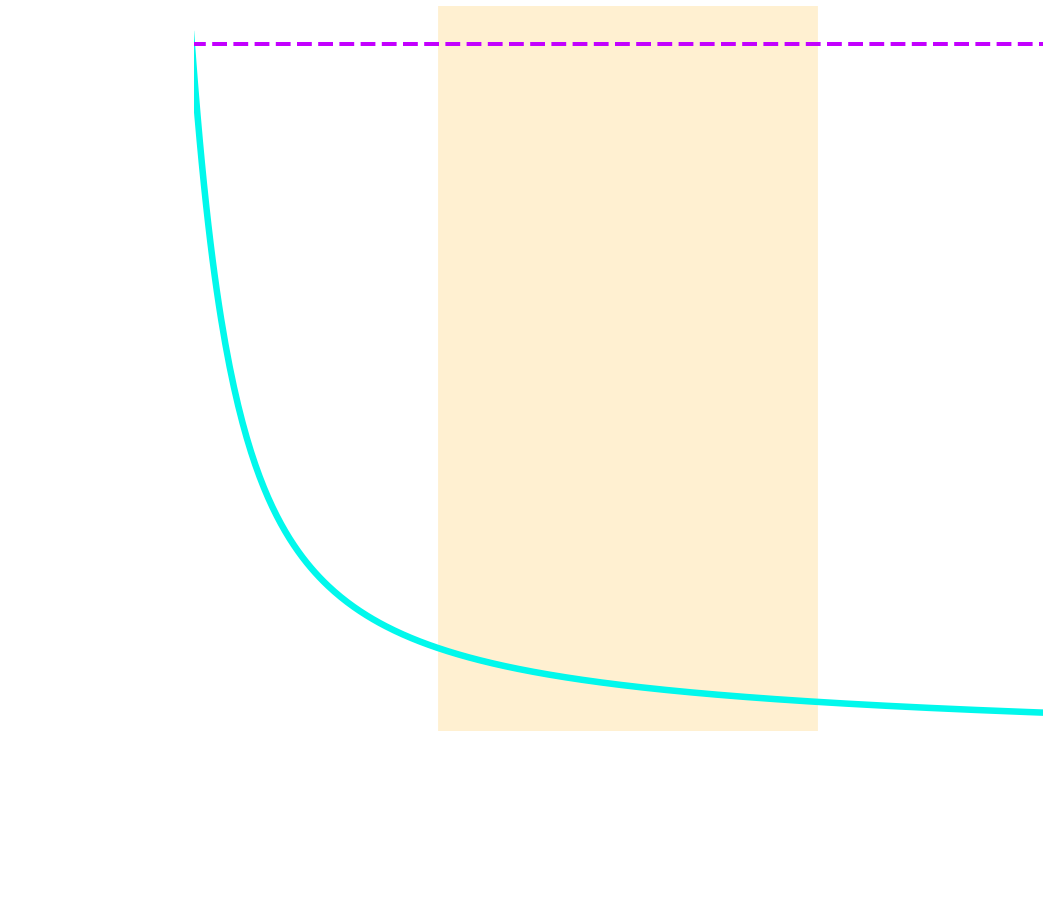
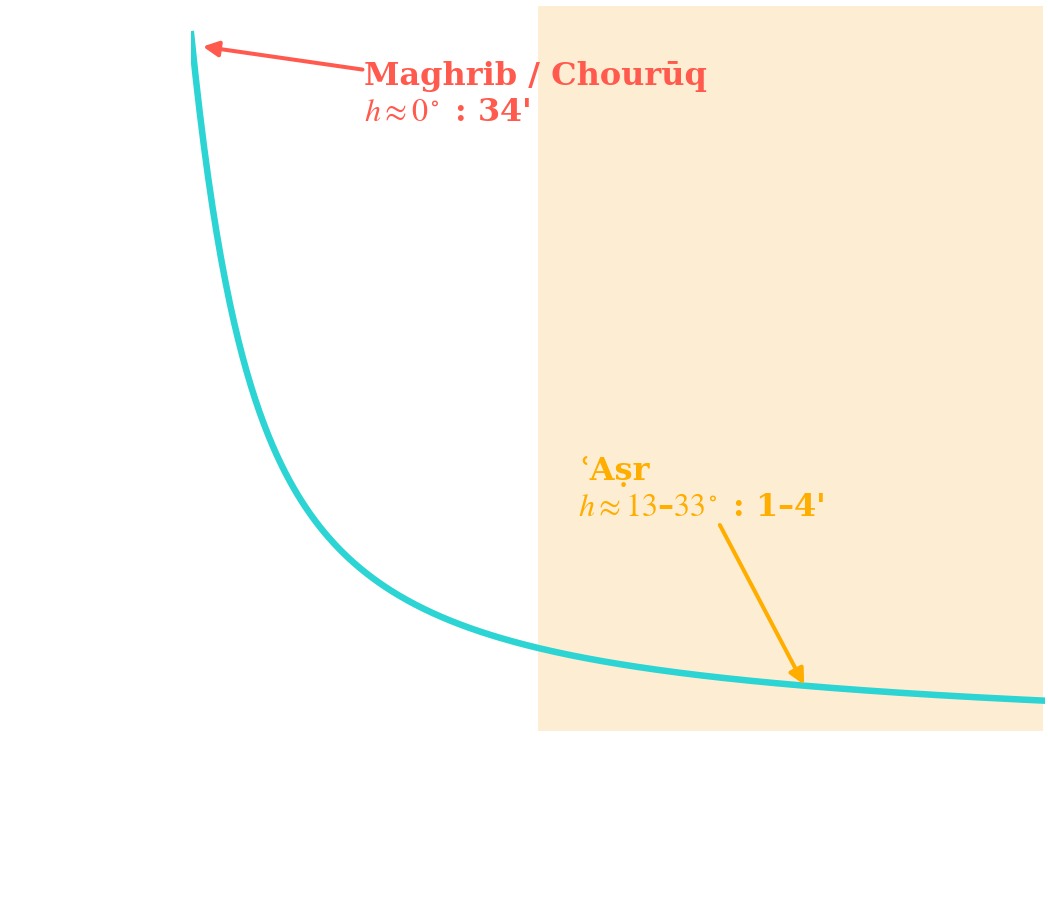
refraction_altitude : version annotée (Maghrib/Chourouq + Asr) en clair ET sombre, fond transparent

diff --git a/scripts/figures/refraction_altitude.py b/scripts/figures/refraction_altitude.py
@@ -5,36 +5,48 @@ Formule de Bennett (1982) : R(h) = 1 / tan(h + 7,31/(h + 4,4))  [minutes d'arc],
 h étant la hauteur (degrés). Maximale à l'horizon (~34'), elle s'effondre dès que
 le Soleil s'élève — d'où son rôle décisif au Maghrib/Chourūq et négligeable à l'ʿAṣr.
 
-Génère les versions claire et sombre (fond transparent).
+Génère les versions claire et sombre (fond transparent, annotations theme-aware).
 
 Lancer :  python3 refraction_altitude.py
 """
 import numpy as np
 import matplotlib.pyplot as plt
 
-h = np.linspace(0, 45, 400)                      # hauteur du Soleil (degrés)
-R = 1.0 / np.tan(np.radians(h + 7.31/(h + 4.4))) # réfraction (arcmin, Bennett)
+h = np.linspace(0, 32, 400)                       # hauteur du Soleil (degrés)
+R = 1.0 / np.tan(np.radians(h + 7.31/(h + 4.4)))  # réfraction (arcmin, Bennett)
 
 def make(dark):
-    fg = "white" if dark else "#111111"
+    fg     = "white"     if dark else "#111111"
+    teal   = "#2dd4d4"   if dark else "#0e7490"
+    red    = "#ff5a4d"   if dark else "#c0392b"
+    amber  = "#ffae00"   if dark else "#b45309"
+
     plt.rcParams.update({'lines.linewidth': 13, 'font.size': 120, 'font.family': 'serif',
-                         'mathtext.fontset': 'stix', 'axes.labelsize': 180,
-                         'text.color': fg, 'axes.labelcolor': fg,
-                         'xtick.color': fg, 'ytick.color': fg, 'axes.edgecolor': fg})
+                         'mathtext.fontset': 'stix', 'axes.labelcolor': fg, 'axes.labelsize': 180,
+                         'text.color': fg, 'xtick.color': fg, 'ytick.color': fg, 'axes.edgecolor': fg})
     fig, ax = plt.subplots(figsize=(29, 25), constrained_layout=True)
     for sp in ax.spines.values():
         sp.set_linewidth(10)
     ax.tick_params(axis='both', length=35, width=10)
 
-    ax.plot(h, R, color="#01f8ec")
-
     # Zone de l'ʿAṣr (Soleil haut : réfraction négligeable)
-    ax.axvspan(13, 33, color="#ffae00", alpha=0.18)
-    ax.axhline(34, color="#c300ff", lw=8, ls="--")           # ~34' à l'horizon
+    ax.axvspan(13, 33, color="#f59e0b", alpha=0.18, zorder=0)
+    ax.plot(h, R, color=teal, zorder=3)
+
+    # Annotation Maghrib / Chourūq (horizon, ~34')
+    ax.annotate(r"Maghrib / Chourūq" + "\n" + r"$h \approx 0^\circ$ : 34'",
+                xy=(0.4, R[0]-0.6), xytext=(6.5, 31.5), color=red, fontsize=64,
+                ha="left", va="center", fontweight="bold",
+                arrowprops=dict(arrowstyle="-|>", color=red, lw=8))
+    # Annotation ʿAṣr (Soleil haut, 1–4')
+    ax.annotate(r"ʿAṣr" + "\n" + r"$h \approx 13$–$33^\circ$ : 1–4'",
+                xy=(23, 1.0/np.tan(np.radians(23+7.31/27.4))), xytext=(14.5, 12),
+                color=amber, fontsize=64, ha="left", va="center", fontweight="bold",
+                arrowprops=dict(arrowstyle="-|>", color=amber, lw=8))
 
     ax.set_xlabel(r"Hauteur du Soleil  $h\ (^\circ)$")
     ax.set_ylabel(r"Réfraction  $R$  (arcmin)")
-    ax.set_xlim(0, 45)
+    ax.set_xlim(0, 32)
     ax.set_ylim(0, 36)
     suffix = "dark" if dark else "light"
     fig.savefig(f"../../public/tawqit/refraction_altitude_{suffix}.png",
@@ -43,4 +55,4 @@ def make(dark):
 
 make(False)
 make(True)
-print("refraction_altitude_{light,dark}.png générées")
+print("refraction_altitude_{light,dark}.png générées (annotées)")